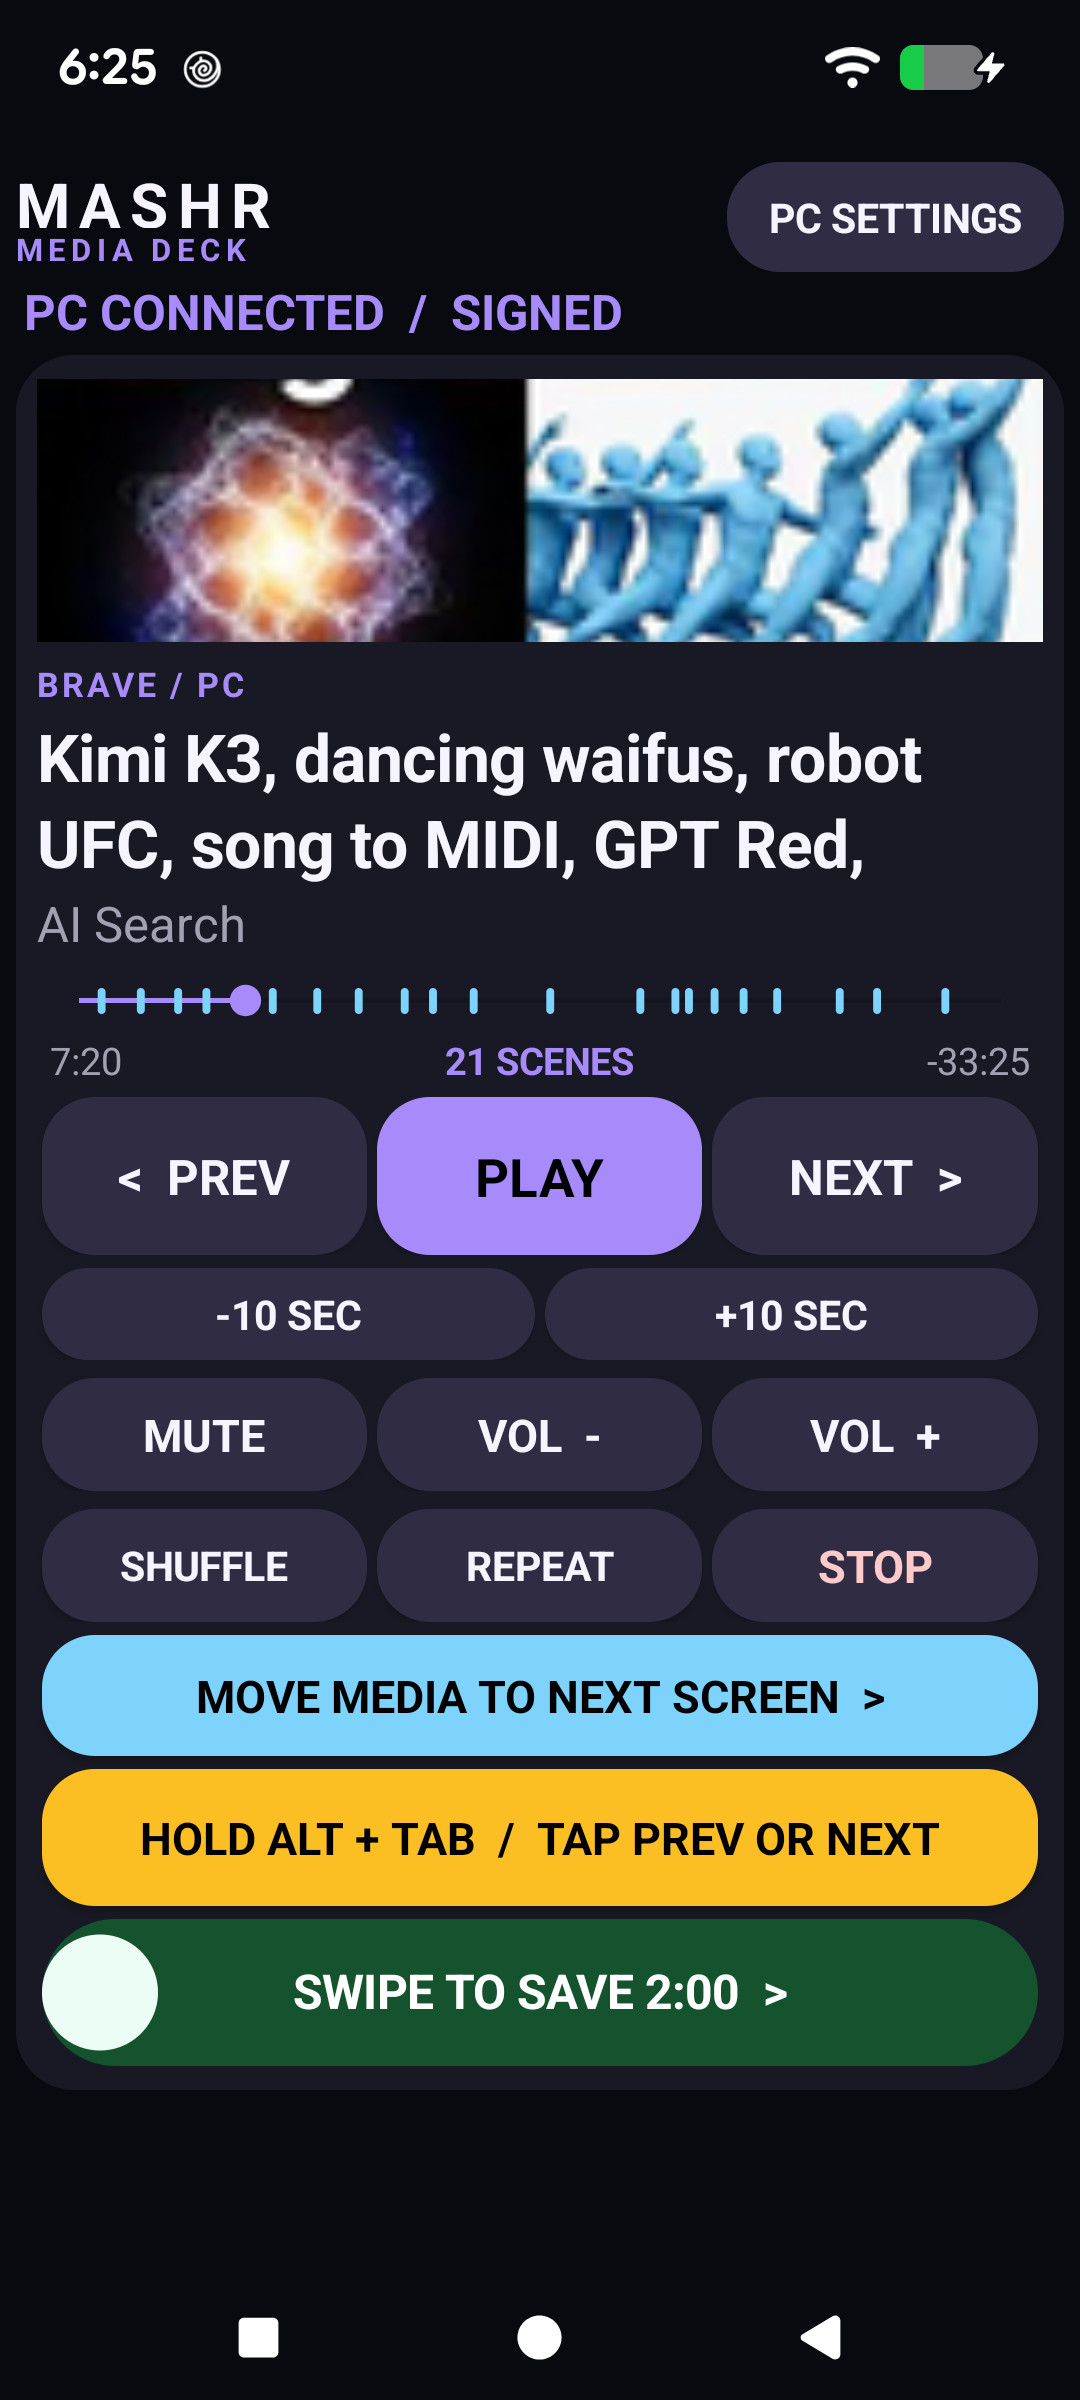
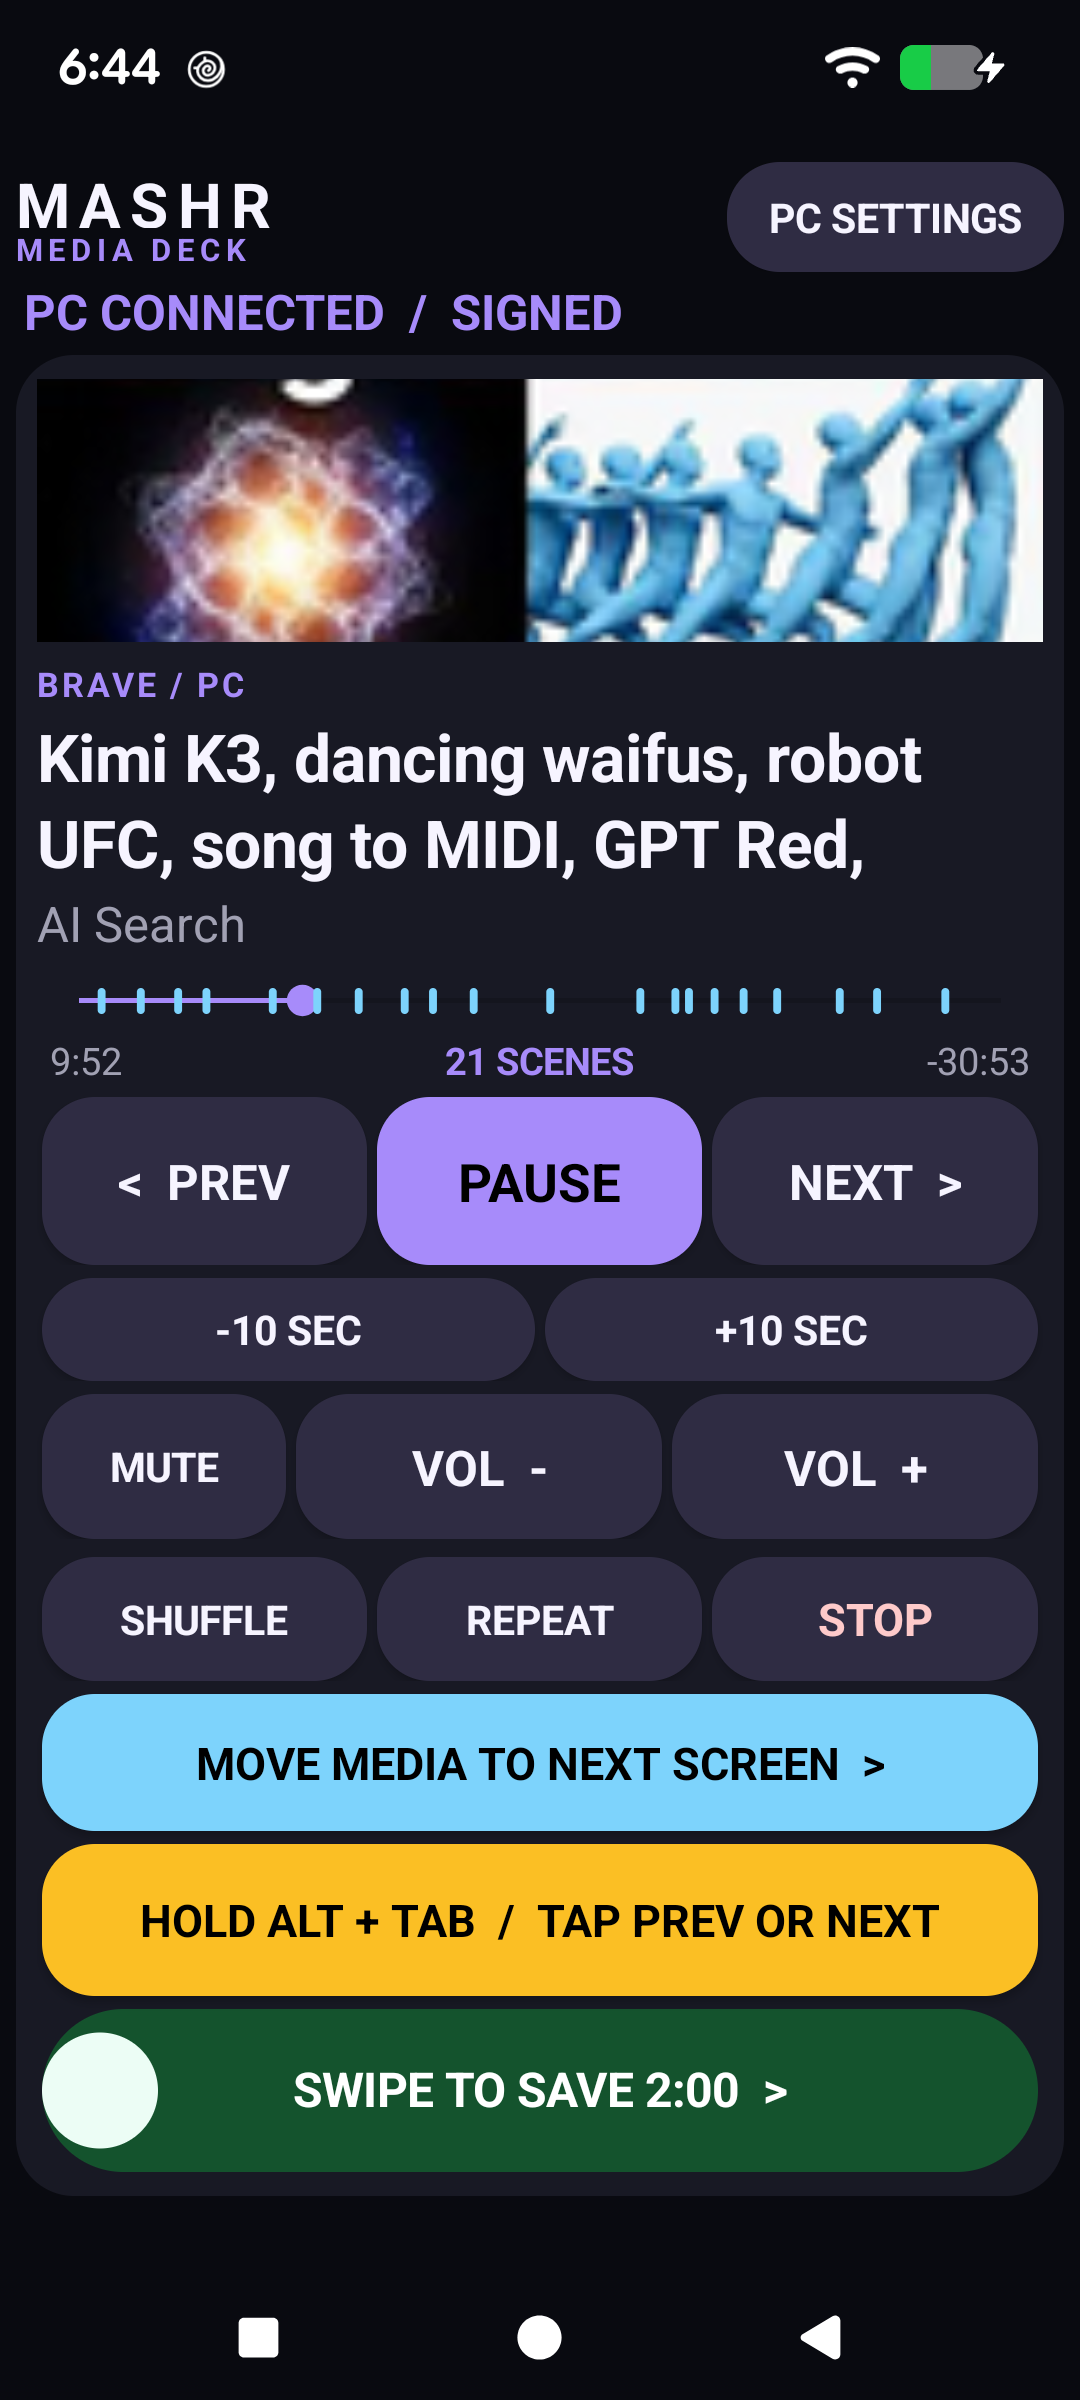
Extend deck and emphasize volume

diff --git a/app/src/main/java/com/mediadeck/remote/MainActivity.java b/app/src/main/java/com/mediadeck/remote/MainActivity.java
@@ -193,22 +193,22 @@ public final class MainActivity extends Activity {
         next=largeAction("NEXT  >","next",14);
         next.setOnClickListener(v->{if(altHeld)sendKeyCommand("arrowright");else control("next");});
         addWeighted(transport,next);
-        card.addView(transport,new LinearLayout.LayoutParams(-1,dp(60)));
+        card.addView(transport,new LinearLayout.LayoutParams(-1,dp(64)));
 
         LinearLayout seekRow=new LinearLayout(this);
         seekRow.setGravity(Gravity.CENTER);
         seekRow.setPadding(0,dp(5),0,0);
         addWeighted(seekRow,largeAction("-10 SEC","back10",12));
         addWeighted(seekRow,largeAction("+10 SEC","forward10",12));
-        card.addView(seekRow,new LinearLayout.LayoutParams(-1,dp(40)));
+        card.addView(seekRow,new LinearLayout.LayoutParams(-1,dp(44)));
 
         LinearLayout volumeRow=new LinearLayout(this);
         volumeRow.setGravity(Gravity.CENTER);
-        volumeRow.setPadding(0,dp(7),0,0);
-        addWeighted(volumeRow,largeAction("MUTE","mute",13));
-        addWeighted(volumeRow,largeAction("VOL  -","volumedown",13));
-        addWeighted(volumeRow,largeAction("VOL  +","volumeup",13));
-        card.addView(volumeRow,new LinearLayout.LayoutParams(-1,dp(50)));
+        volumeRow.setPadding(0,dp(5),0,0);
+        addWeighted(volumeRow,largeAction("MUTE","mute",12),.75f);
+        addWeighted(volumeRow,largeAction("VOL  -","volumedown",14),1.125f);
+        addWeighted(volumeRow,largeAction("VOL  +","volumeup",14),1.125f);
+        card.addView(volumeRow,new LinearLayout.LayoutParams(-1,dp(60)));
 
         LinearLayout modeRow=new LinearLayout(this);
         modeRow.setGravity(Gravity.CENTER);
@@ -220,14 +220,14 @@ public final class MainActivity extends Activity {
         Button stop=largeAction("STOP","stop",13);
         stop.setTextColor(Color.rgb(254,202,202));
         addWeighted(modeRow,stop);
-        card.addView(modeRow,new LinearLayout.LayoutParams(-1,dp(50)));
+        card.addView(modeRow,new LinearLayout.LayoutParams(-1,dp(54)));
 
         Button moveScreen=largeAction("MOVE MEDIA TO NEXT SCREEN  >","movescreen",13);
         moveScreen.setTextColor(Color.BLACK);
         moveScreen.setBackground(round(Color.rgb(125,211,252),20));
         moveScreen.setContentDescription("Move the selected PC media window to the next monitor");
         moveScreen.setOnClickListener(v->moveScreen());
-        LinearLayout.LayoutParams moveLp=new LinearLayout.LayoutParams(-1,dp(46));
+        LinearLayout.LayoutParams moveLp=new LinearLayout.LayoutParams(-1,dp(52));
         moveLp.setMargins(dp(2),dp(5),dp(2),0);
         card.addView(moveScreen,moveLp);
 
@@ -239,12 +239,12 @@ public final class MainActivity extends Activity {
             if(event.getActionMasked()==MotionEvent.ACTION_UP||event.getActionMasked()==MotionEvent.ACTION_CANCEL){v.getParent().requestDisallowInterceptTouchEvent(false);endAltGesture();return true;}
             return true;
         });
-        LinearLayout.LayoutParams altLp=new LinearLayout.LayoutParams(-1,dp(52));
+        LinearLayout.LayoutParams altLp=new LinearLayout.LayoutParams(-1,dp(58));
         altLp.setMargins(dp(2),dp(5),dp(2),0);
         card.addView(altTab,altLp);
 
         replay=new SwipeReplayView(this::handleReplayGesture);
-        LinearLayout.LayoutParams replayLp=new LinearLayout.LayoutParams(-1,dp(56));
+        LinearLayout.LayoutParams replayLp=new LinearLayout.LayoutParams(-1,dp(62));
         replayLp.setMargins(dp(2),dp(5),dp(2),0);
         card.addView(replay,replayLp);
         root.addView(card);
@@ -614,7 +614,8 @@ public final class MainActivity extends Activity {
     private String url(String path){return "http://"+base+":43821"+path;}
     private Button action(String label,String command){Button button=button(label);button.setOnClickListener(v->control(command));return button;}
     private Button largeAction(String label,String command,int size){Button button=action(label,command);button.setTextSize(size);button.setSingleLine(true);button.setPadding(dp(4),0,dp(4),0);return button;}
-    private void addWeighted(LinearLayout row,View view){LinearLayout.LayoutParams params=new LinearLayout.LayoutParams(0,-1,1);params.setMargins(dp(2),0,dp(2),0);row.addView(view,params);}
+    private void addWeighted(LinearLayout row,View view){addWeighted(row,view,1f);}
+    private void addWeighted(LinearLayout row,View view,float weight){LinearLayout.LayoutParams params=new LinearLayout.LayoutParams(0,-1,weight);params.setMargins(dp(2),0,dp(2),0);row.addView(view,params);}
     private String formatTime(long millis){long total=Math.max(0,millis/1000),hours=total/3600,minutes=(total%3600)/60,seconds=total%60;return hours>0?String.format(Locale.US,"%d:%02d:%02d",hours,minutes,seconds):String.format(Locale.US,"%d:%02d",minutes,seconds);}
     private String friendlySource(String value){String lower=value.toLowerCase(Locale.US);if(lower.contains("vlc"))return "VLC / PC";if(lower.contains("brave"))return "BRAVE / PC";if(lower.contains("chrome"))return "CHROME / PC";if(lower.contains("spotify"))return "SPOTIFY / PC";return "PC MEDIA";}
     private TextView text(String value,int size,int color,boolean bold){TextView view=new TextView(this);view.setText(value);view.setTextSize(size);view.setTextColor(color);view.setTypeface(Typeface.DEFAULT,bold?Typeface.BOLD:Typeface.NORMAL);view.setLineSpacing(0,1.1f);return view;}

diff --git a/CHANGELOG.md b/CHANGELOG.md
@@ -13,6 +13,7 @@ All notable MASHR Media Deck changes are recorded here.
 ### Changed
 
 - Reduced the outer deck gutter, card inset, and control-row spacing so the Pixel 7 layout uses more of the available screen width while retaining safe rounded edges.
+- Extended the control stack toward the Pixel navigation area, made Mute narrower, and gave both volume controls more width, height, and label emphasis.
 
 ## 1.4.0 — 2026-07-17
 
